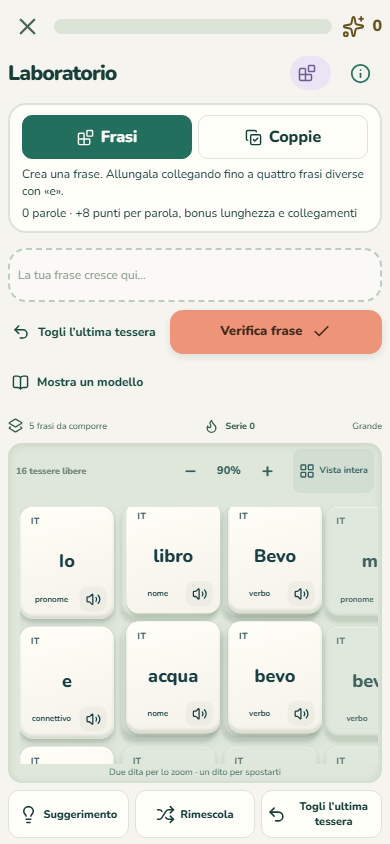
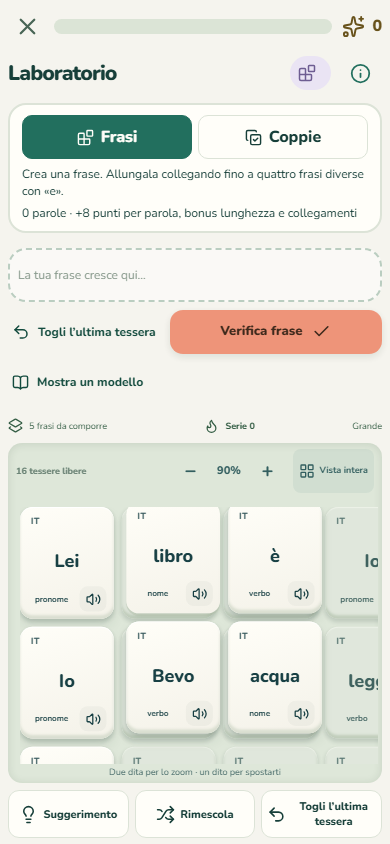
Record public Pages verification of Parola 6.10 sentence and picture gameplay
Preserve the public four-group Chromium report and captures alongside the local evidence. Document the successful functional Pages build, targeted grammar/presentation/asset tests, merge state, release references and limits of the voice-disabled gameplay smoke.

diff --git a/docs/PUBBLICAZIONE.md b/docs/PUBBLICAZIONE.md
@@ -131,3 +131,13 @@ Controllo funzionale aggiuntivo circoscritto alla tastiera orizzontale: la vecch
 
 
 Commit funzionale 9740aa2 pubblicato su master; GitHub Pages ha completato la build senza errori. Sette gruppi dello smoke superati anche sul sito ufficiale, versione 6.9.0 confermata. Report pubblico smoke-design-6.9.0.json separato dal locale. Verificati font locale, obiettivi e record alfabetico reali, navigazione e ritorni, tutti i formati, schede del profilo, righe della tastiera e Invia interamente nel pannello, replay e RTL. Lo script audio precedente è stato adattato al nuovo accesso alla scheda Audio, senza ripetere la suite vocale completa. Sorgenti, artefatti, licenze, versione, changelog, report e checksum conservati; fetch/merge e push normali su master.
+
+## 6.10.0 — laboratorio, cloze e immagini
+
+Pubblicazione su `matteoawi/parola`, ramo master: commit funzionale `6fa4bff40de949b540efb392a4d8007d14fcb6f4`. Build GitHub Pages completata senza errori. Gioco pubblico: https://matteoawi.github.io/parola/.
+
+Sette test Node mirati superati (grammatica nelle quattro lingue, punteggi, 100 tavoli laboratorio, provenienza delle parole e dei disegni, risposte cloze raggiungibili e presentazioni). Quattro gruppi Chromium superati sull’origine locale e sul sito pubblico: introduzioni, frase lunga e coppie miste, rifornimenti e punteggio, ricarica/ripresa/annullamento, riepilogo senza falsa padronanza, cloze nelle quattro lingue, immagini russo bilingue e arabo monolingua, sei modalità e layout mobile/desktop. Nessun errore JavaScript o traduzione mancante osservato. Verifica di originalità per 36 Lucide e otto Twemoji, con incorporamento offline.
+
+Report: `docs/local-smoke-sentence-games-6.10.0.json` e `docs/smoke-sentence-games-6.10.0.json`. Documentazione e limiti: `docs/MODALITA-6.10.0.md`. Il test disabilita la riproduzione vocale per isolare la logica di gioco; non misura la qualità delle voci sul telefono. Nessun nuovo file audio o servizio vocale introdotto.
+
+Fetch e merge di origin/master prima del push; nessun aggiornamento remoto da integrare. Changelog, crediti, cache, manifest, corso, pagina e standalone aggiornati alla versione 6.10.0.
